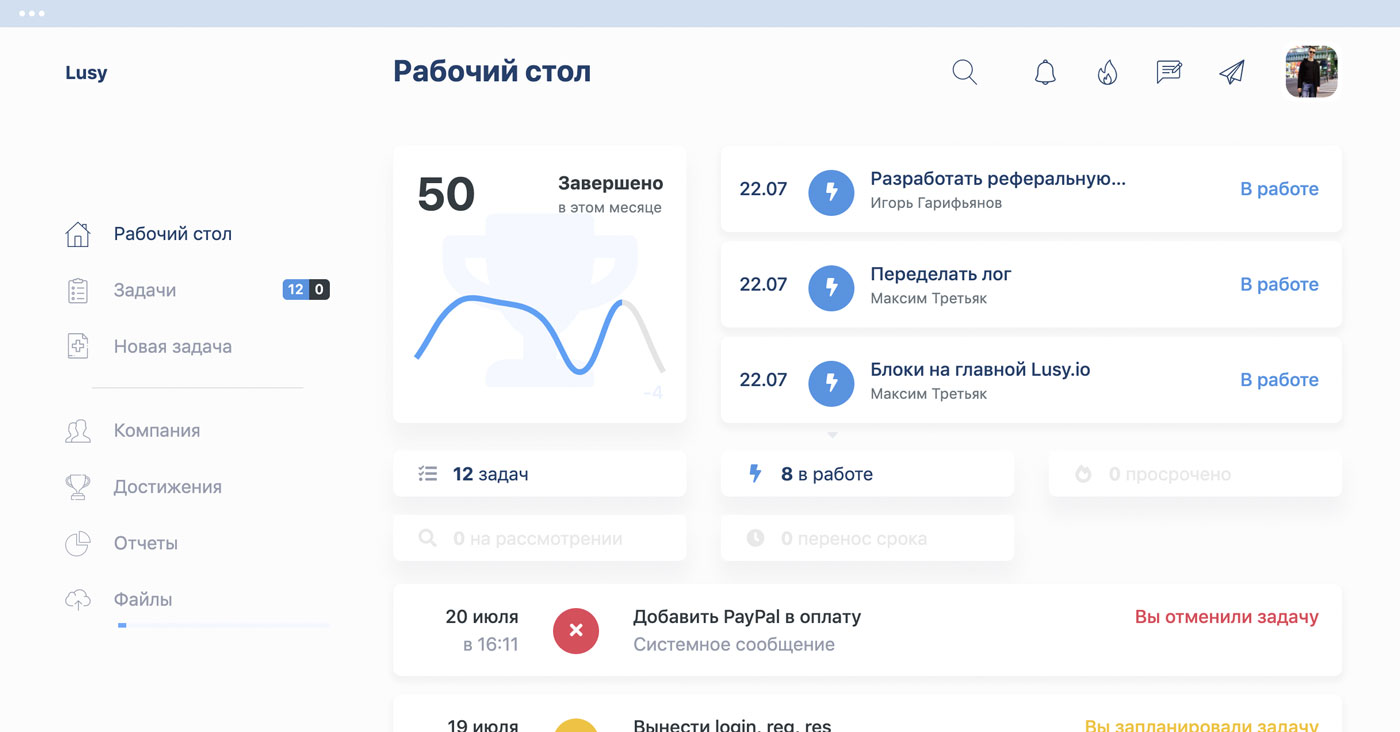
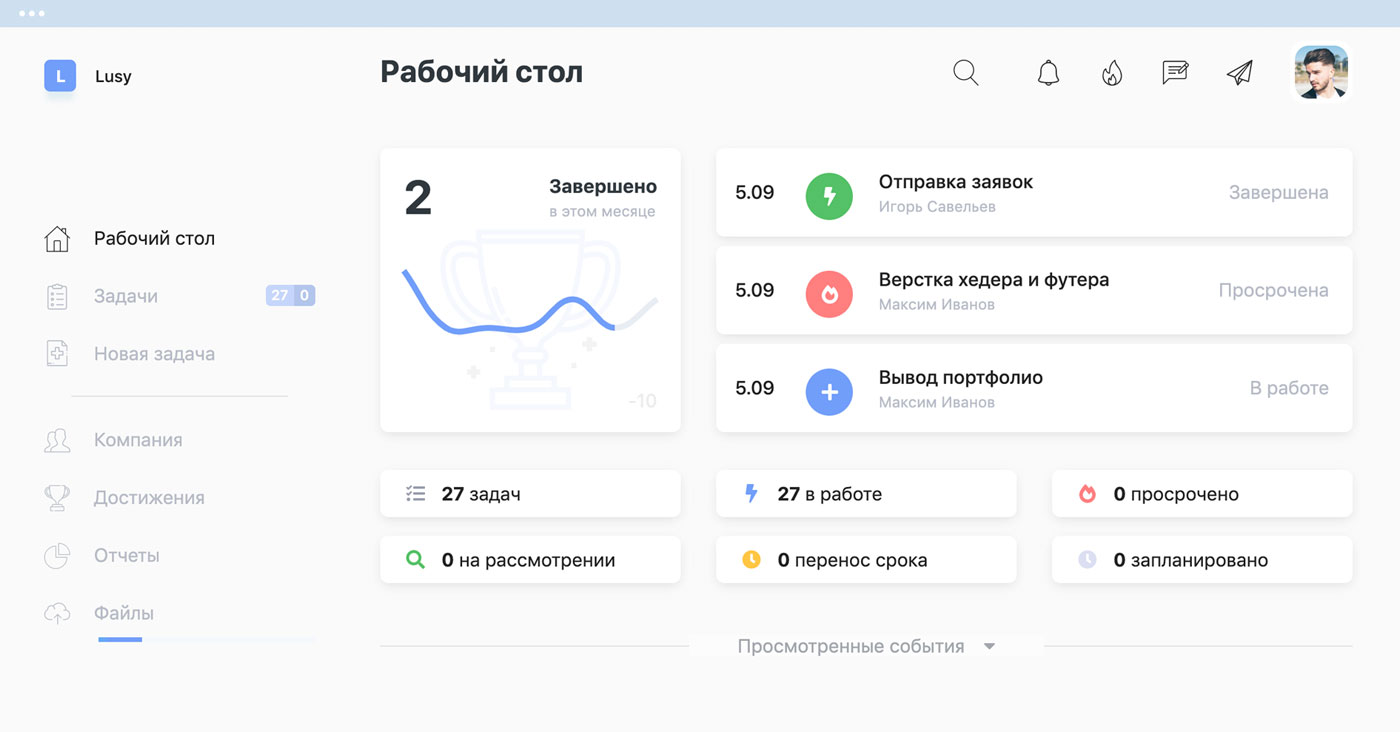
Обновил картинки

diff --git a/public/css/custom.css b/public/css/custom.css
@@ -90,6 +90,9 @@ img {
 .btn-primary:hover {
     background: #353aaf;
 }
+.bg-primary, .badge-primary {
+    background: #737ae8 !important;
+}
 .nav-link:hover {
     color: rgba(0, 0, 0, 1);
     transition: 0.2s all;

diff --git a/app/views/main/index.php b/app/views/main/index.php
@@ -232,7 +232,7 @@
             </div>
             <div class="award text-center aw2">
                 <div>
-                    <div class="circle" data-fill="{ &quot;color&quot;: &quot;rgba(0, 0, 0, .3)&quot;}"
+                    <div class="circle" data-fill="{ &quot;color&quot;: &quot;rgba(127, 134, 234, .8)&quot;}"
                          data-value="0.20"></div>
                     <div class="award-star bg-secondary">
                         <i class="fas fa-handshake"></i>
@@ -245,20 +245,20 @@
             </div>
             <div class="award text-center aw3">
                 <div>
-                    <div class="circle" data-fill="{ &quot;color&quot;: &quot;rgba(40, 167, 69, 1)&quot;}"
+                    <div class="circle" data-fill="{ &quot;color&quot;: &quot;rgba(127, 134, 234, 1)&quot;}"
                          data-value="1.00"></div>
-                    <div class="award-star bg-success">
+                    <div class="award-star bg-primary">
                         <i class="fas fas fa-medal"></i>
                     </div>
                 </div>
                 <h5>Красавчик</h5>
                 <small class="mt-3">Месяц без просрочек</small>
                 <hr>
-                <span class="badge badge-success">Достигнуто</span>
+                <span class="badge badge-primary">Достигнуто</span>
             </div>
             <div class="award text-center aw2">
                 <div>
-                    <div class="circle" data-fill="{ &quot;color&quot;: &quot;rgba(0, 0, 0, .3)&quot;}"
+                    <div class="circle" data-fill="{ &quot;color&quot;: &quot;rgba(127, 134, 234, .8)&quot;}"
                          data-value="0.10"></div>
                     <div class="award-star bg-secondary">
                         <i class="fas fa-handshake"></i>
@@ -271,7 +271,7 @@
             </div>
             <div class="award text-center mr-0 aw1">
                 <div>
-                    <div class="circle" data-fill="{ &quot;color&quot;: &quot;rgba(0, 0, 0, .3)&quot;}"
+                    <div class="circle" data-fill="{ &quot;color&quot;: &quot;rgba(127, 134, 234, .8)&quot;}"
                          data-value="0.26"></div>
                     <div class="award-star bg-secondary">
                         <i class="fas fas fa-star"></i>
@@ -361,7 +361,7 @@
             <div class="swiper-slide">
                 <div class="award text-center">
                     <div>
-                        <div class="circle" data-fill="{ &quot;color&quot;: &quot;rgba(0, 0, 0, .3)&quot;}"
+                        <div class="circle" data-fill="{ &quot;color&quot;: &quot;rgba(127, 134, 234)&quot;}"
                              data-value="0.20"></div>
                         <div class="award-star bg-secondary">
                             <i class="fas fa-handshake"></i>
@@ -391,7 +391,7 @@
             <div class="swiper-slide">
                 <div class="award text-center">
                     <div>
-                        <div class="circle" data-fill="{ &quot;color&quot;: &quot;rgba(0, 0, 0, .3)&quot;}"
+                        <div class="circle" data-fill="{ &quot;color&quot;: &quot;rgba(127, 134, 234)&quot;}"
                              data-value="0.10"></div>
                         <div class="award-star bg-secondary">
                             <i class="fas fa-handshake"></i>
@@ -406,7 +406,7 @@
             <div class="swiper-slide">
                 <div class="award text-center">
                     <div>
-                        <div class="circle" data-fill="{ &quot;color&quot;: &quot;rgba(0, 0, 0, .3)&quot;}"
+                        <div class="circle" data-fill="{ &quot;color&quot;: &quot;rgba(127, 134, 234)&quot;}"
                              data-value="0.26"></div>
                         <div class="award-star bg-secondary">
                             <i class="fas fas fa-star"></i>

diff --git a/app/views/layouts/default.php b/app/views/layouts/default.php
@@ -86,10 +86,10 @@
                 <h2 class="small mb-5">система постановки и контроля задач</h2>
                 <p><a
                             href="/<?= $this->route['language']; ?>/history/"
-                            class="btn-link text-dark">История версий</a></p>
+                            class="btn-link text-secondary">История версий</a></p>
                 <p><a
                             href="https://lusy.io/licenzionnoe-soglashenie-dogovor-publichnoj-oferty.pdf"
-                            class="btn-link text-dark" target="_blank">Оферта
+                            class="btn-link text-secondary" target="_blank">Оферта
                         рекуррентных
                         платежей</a></p>
             </div>

diff --git a/app/controllers/HistoryController.php b/app/controllers/HistoryController.php
@@ -24,7 +24,7 @@ class HistoryController extends Controller
                 'icon' => 'far',
                 'iconColor' => 'icon-complete',
                 'version' => 'v1.0.2',
-                'date' => '18 августа 2019',
+                'date' => '28 августа 2019',
                 'news' =>
                     'Сообщения об ачивках пользователей в общем чате',
                 'changes' =>
